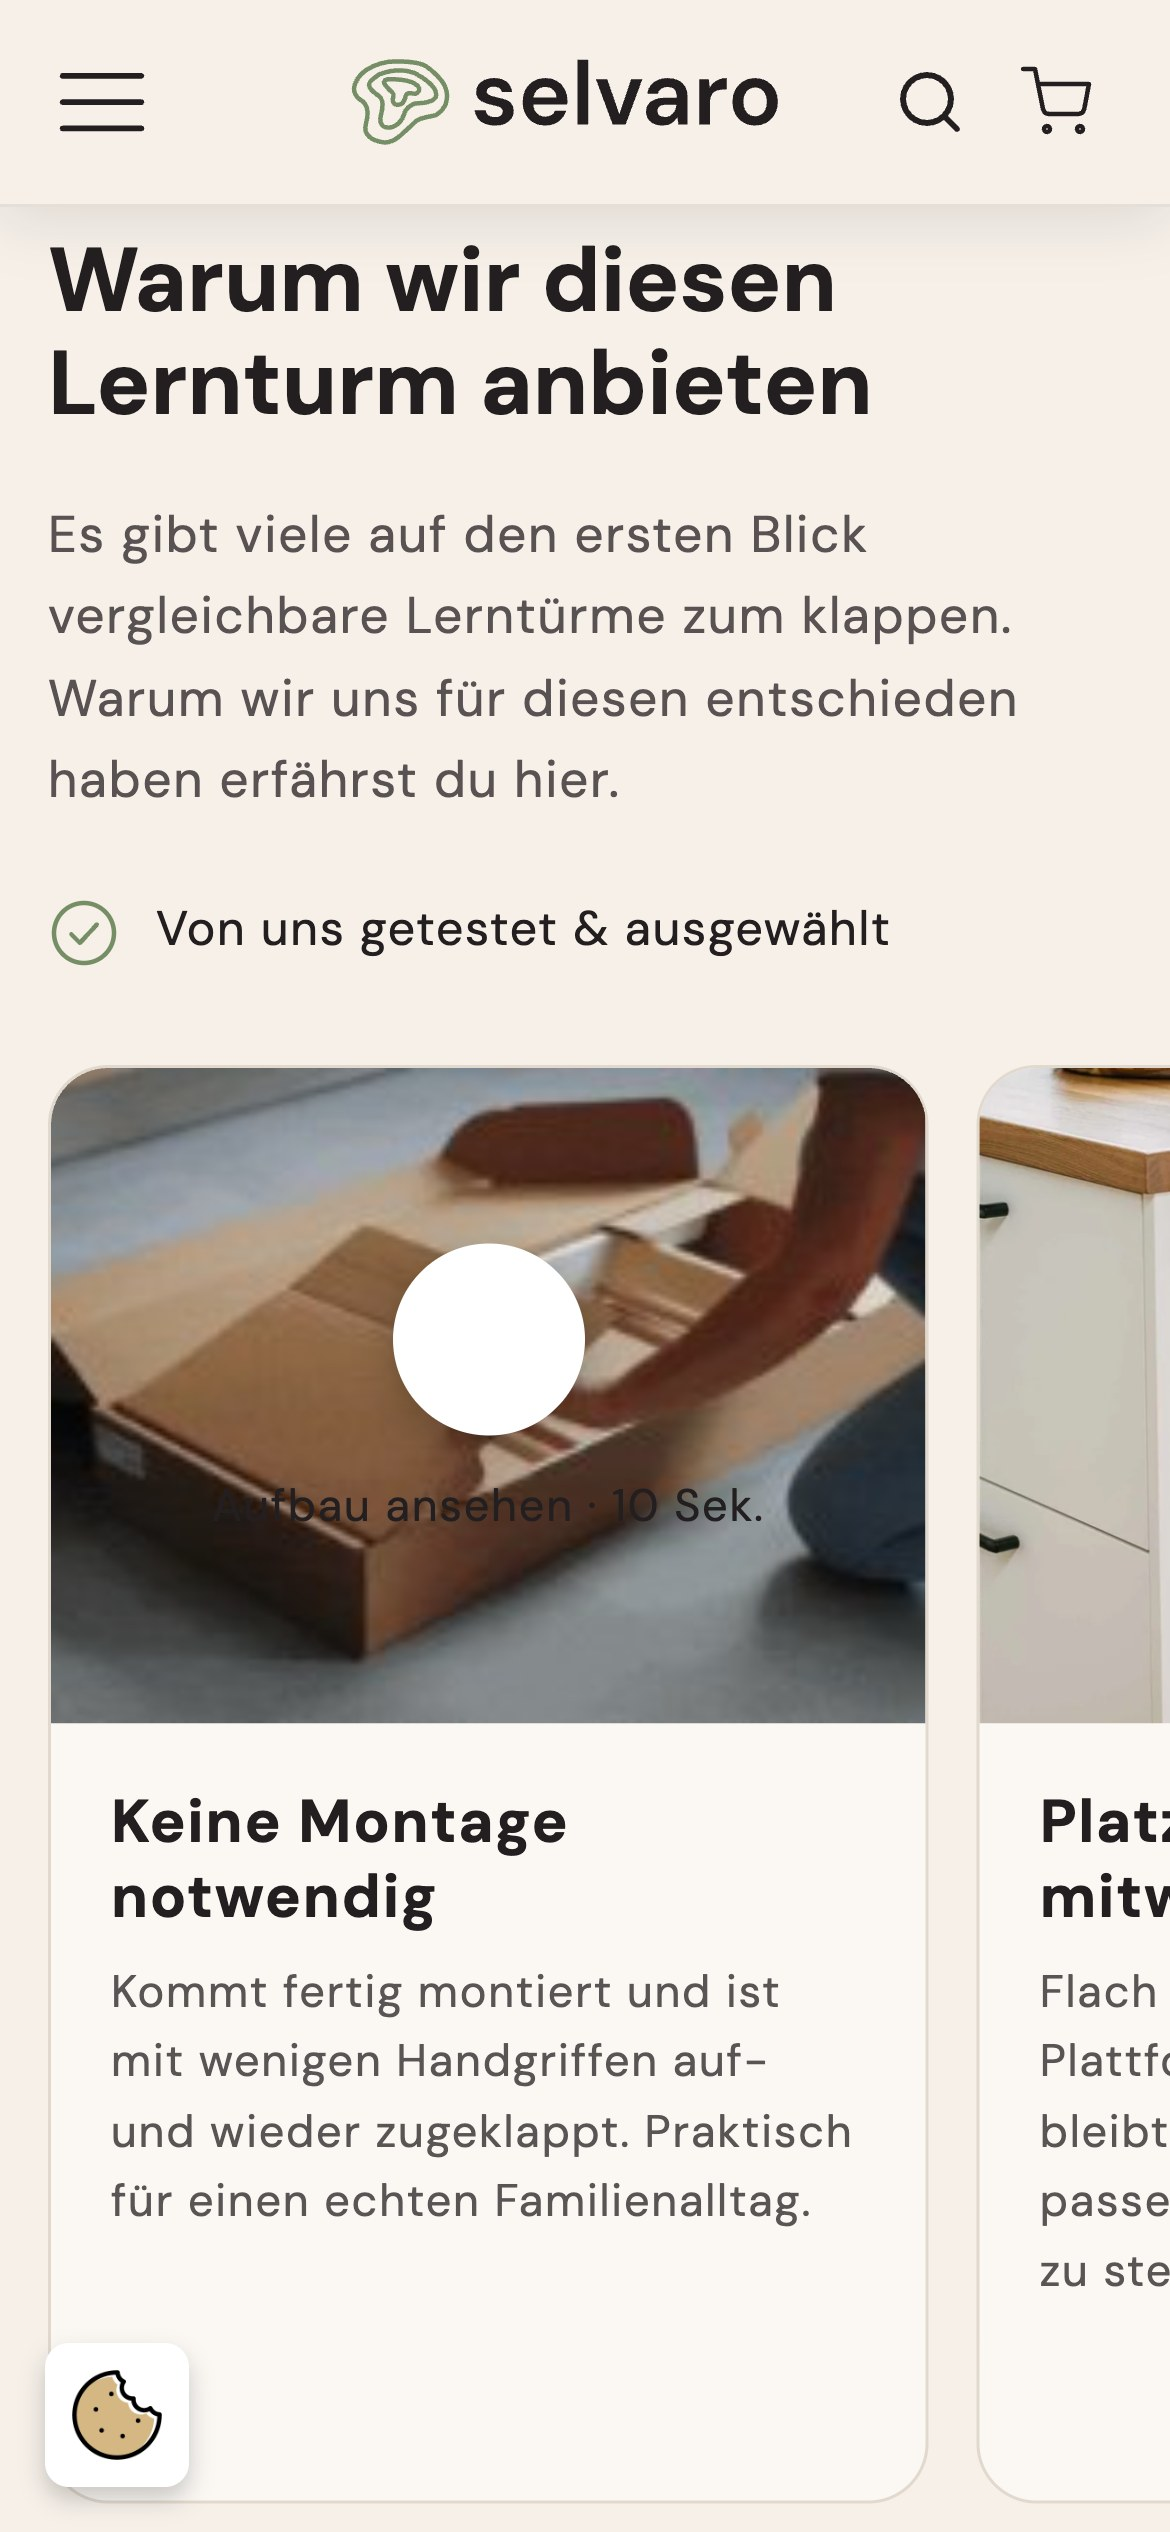
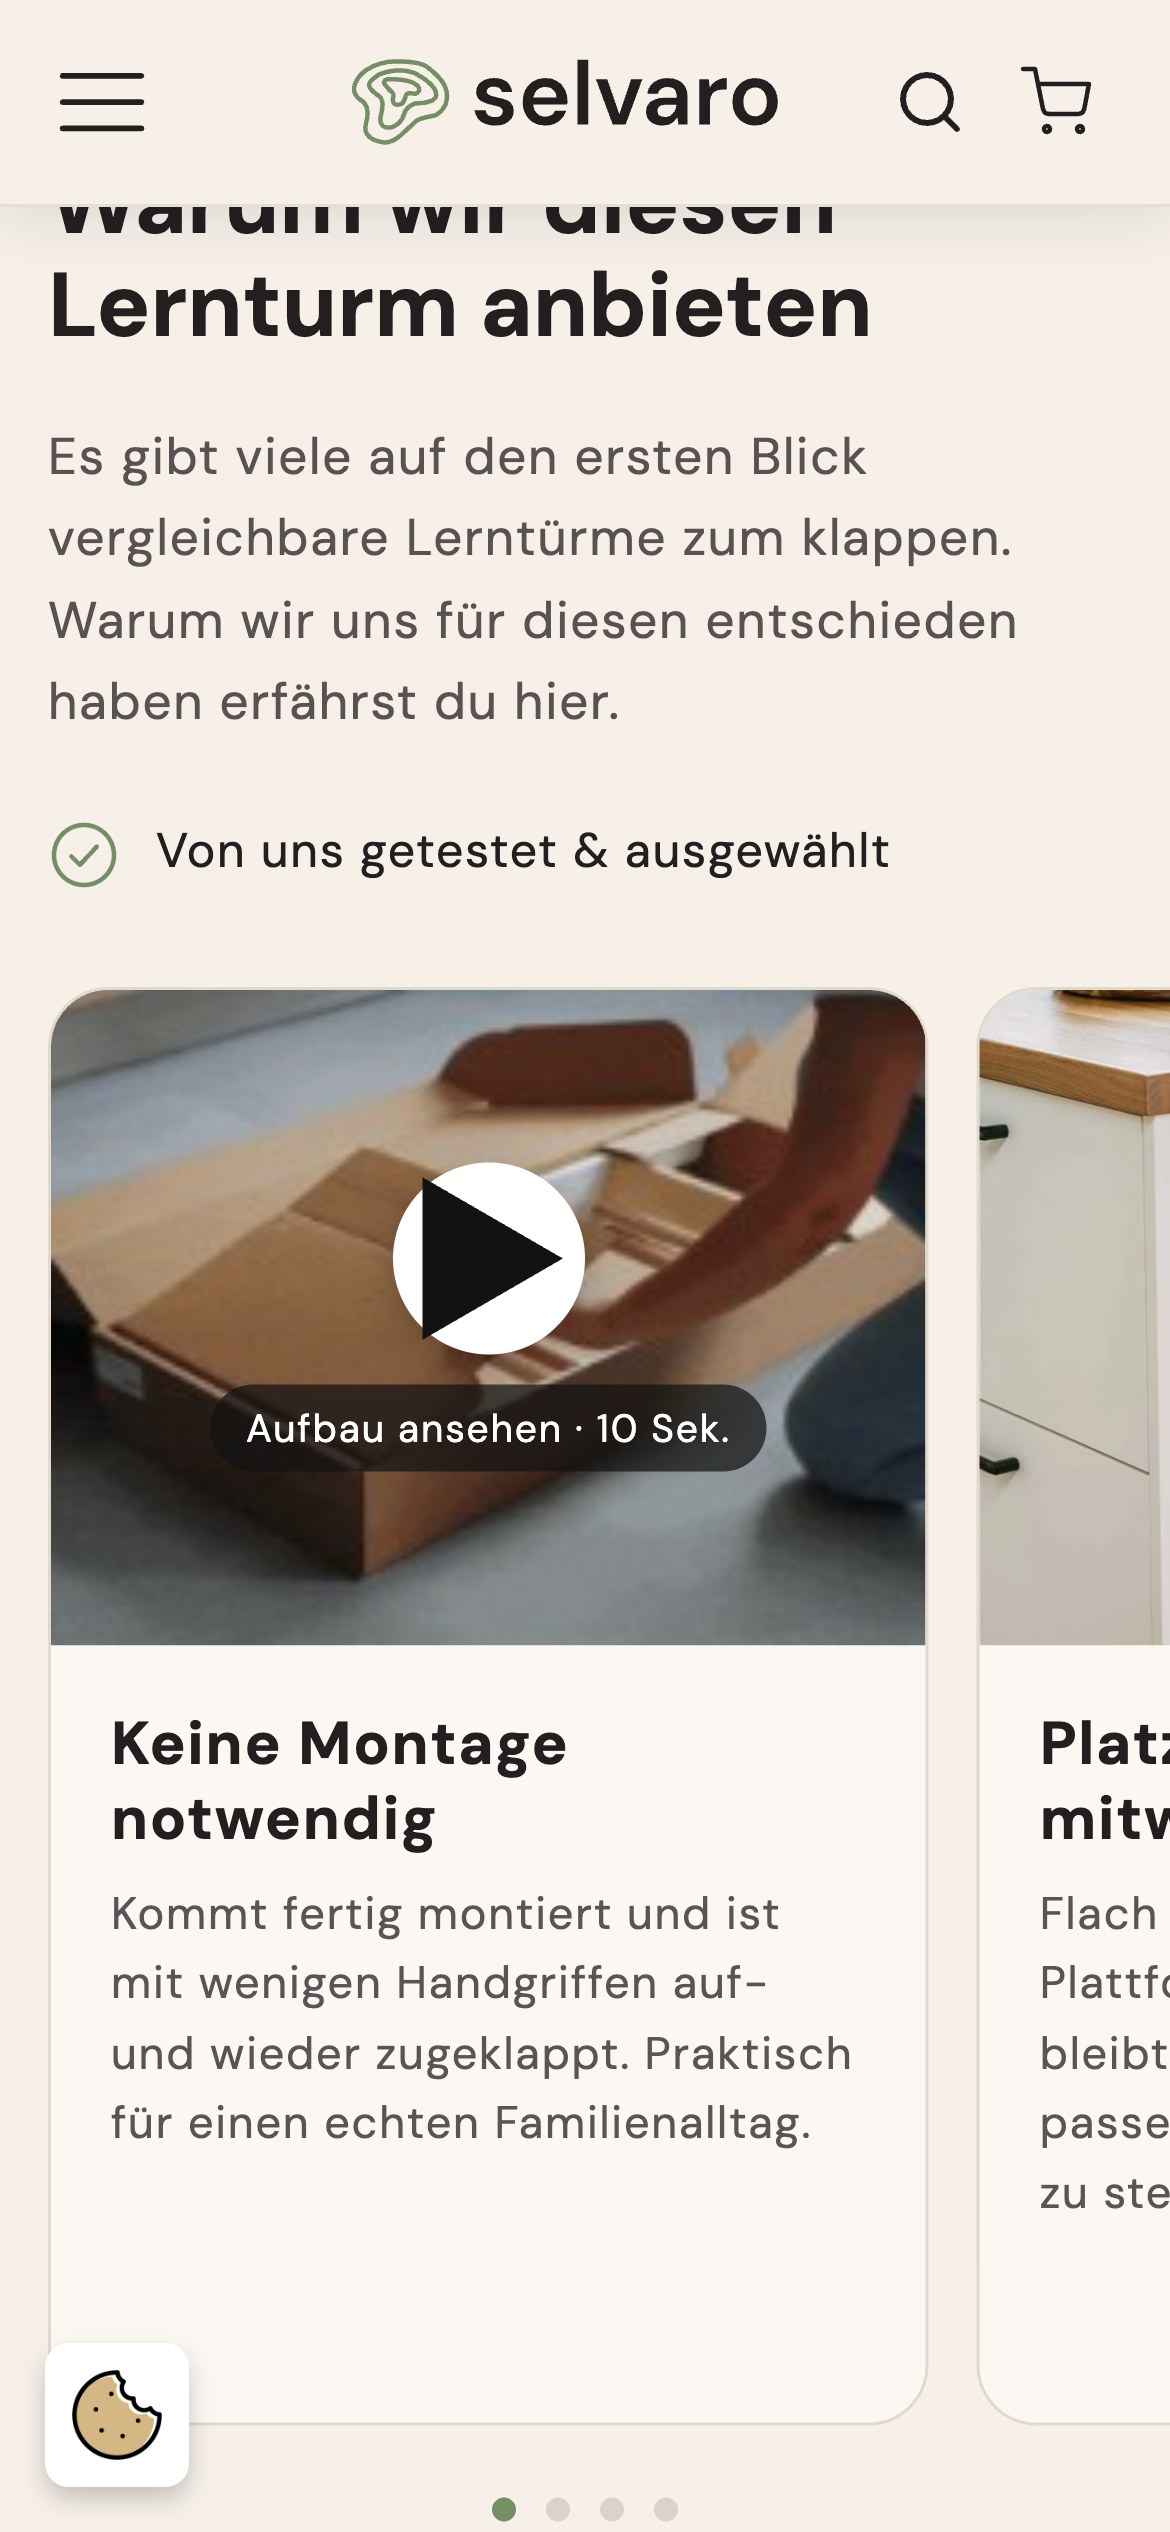
GIF pair redone

diff --git a/_build/fix_p02b.js b/_build/fix_p02b.js
@@ -1,0 +1,29 @@
+const puppeteer=require('/Users/annserputko/Desktop/штаб/_Технічне/chrome-mcp-server/node_modules/puppeteer-core');
+const path=require('path');const IMG=path.join(__dirname,'..','img');
+const CHROME='/Users/annserputko/.cache/puppeteer/chrome/mac_arm-127.0.6533.88/chrome-mac-arm64/Google Chrome for Testing.app/Contents/MacOS/Google Chrome for Testing';
+setTimeout(()=>{console.error('TIMEOUT');process.exit(2)},150000);
+const sleep=ms=>new Promise(r=>setTimeout(r,ms));
+(async()=>{
+ const b=await puppeteer.launch({executablePath:CHROME,headless:'new',args:['--no-sandbox','--hide-scrollbars']});
+ const p=await b.newPage();
+ await p.setUserAgent('Mozilla/5.0 (iPhone; CPU iPhone OS 17_5 like Mac OS X) AppleWebKit/605.1.15 (KHTML, like Gecko) Version/17.5 Mobile/15E148 Safari/604.1');
+ await p.setViewport({width:390,height:844,deviceScaleFactor:3,isMobile:true,hasTouch:true});
+ await p.goto('https://selvaro.de/products/lernturm-klappbar',{waitUntil:'domcontentloaded',timeout:30000});await sleep(3000);
+ await p.evaluate(()=>{const v=[...document.querySelectorAll('button,a')].find(b=>/^\s*Ok\s*$/i.test(b.innerText||'')&&b.getBoundingClientRect().width>0);if(v)v.click();});await sleep(1000);
+ for(let s=0;s<9000;s+=600){await p.evaluate(s=>scrollTo(0,s),s);await sleep(150)}
+ const info=await p.evaluate(()=>{const im=[...document.images].find(i=>/Lernturmklappbaraufbau/.test(i.currentSrc||i.src||i.getAttribute('srcset')||''));if(!im)return null;const r=im.getBoundingClientRect();return {top:Math.round(r.top+scrollY),w:Math.round(r.width),h:Math.round(r.height),disp:getComputedStyle(im).display,complete:im.complete,nat:im.naturalWidth+'x'+im.naturalHeight}});
+ console.error('gif',JSON.stringify(info)); if(!info){await b.close();process.exit(1)}
+ await p.evaluate(y=>scrollTo(0,y),info.top-330);await sleep(1500);
+ // wait for gif to load
+ for(let i=0;i<20;i++){const c=await p.evaluate(()=>{const im=[...document.images].find(i=>/Lernturmklappbaraufbau/.test(i.currentSrc||i.src));return im&&im.complete&&im.naturalWidth>0});if(c)break;await sleep(2000)}
+ await sleep(800);
+ await p.screenshot({path:path.join(IMG,'now-product-gif-m.jpg'),type:'jpeg',quality:88});
+ await p.evaluate(()=>{const im=[...document.images].find(i=>/Lernturmklappbaraufbau/.test(i.currentSrc||i.src));const r=im.getBoundingClientRect();const c=document.createElement('canvas');c.width=im.naturalWidth||768;c.height=im.naturalHeight||432;try{c.getContext('2d').drawImage(im,0,0,c.width,c.height);im.src=c.toDataURL('image/jpeg',.9);im.removeAttribute('srcset');im.removeAttribute('data-srcset');}catch(e){}
+  const host=im.parentElement;host.style.position='relative';
+  const ov=document.createElement('div');ov.style.cssText='position:absolute;inset:0;display:flex;flex-direction:column;align-items:center;justify-content:center;gap:10px;pointer-events:none';
+  ov.innerHTML='<div style="width:64px;height:64px;border-radius:50%;background:#fff;box-shadow:0 4px 14px rgba(0,0,0,.25);display:flex;align-items:center;justify-content:center"><svg width="24" height="26" viewBox="0 0 24 26"><path d="M3 2 L22 13 L3 24 Z" fill="#121212"/></svg></div><div style="background:rgba(18,18,18,.72);color:#fff;font:500 13px/1 \'DM Sans\',sans-serif;padding:8px 12px;border-radius:999px">Aufbau ansehen · 10 Sek.</div>';
+  host.appendChild(ov);});
+ await sleep(700);
+ await p.screenshot({path:path.join(IMG,'fix-product-video-m.jpg'),type:'jpeg',quality:88});
+ await b.close();console.error('DONE');process.exit(0);
+})().catch(e=>{console.error('ERR',String(e).slice(0,200));process.exit(1)});
